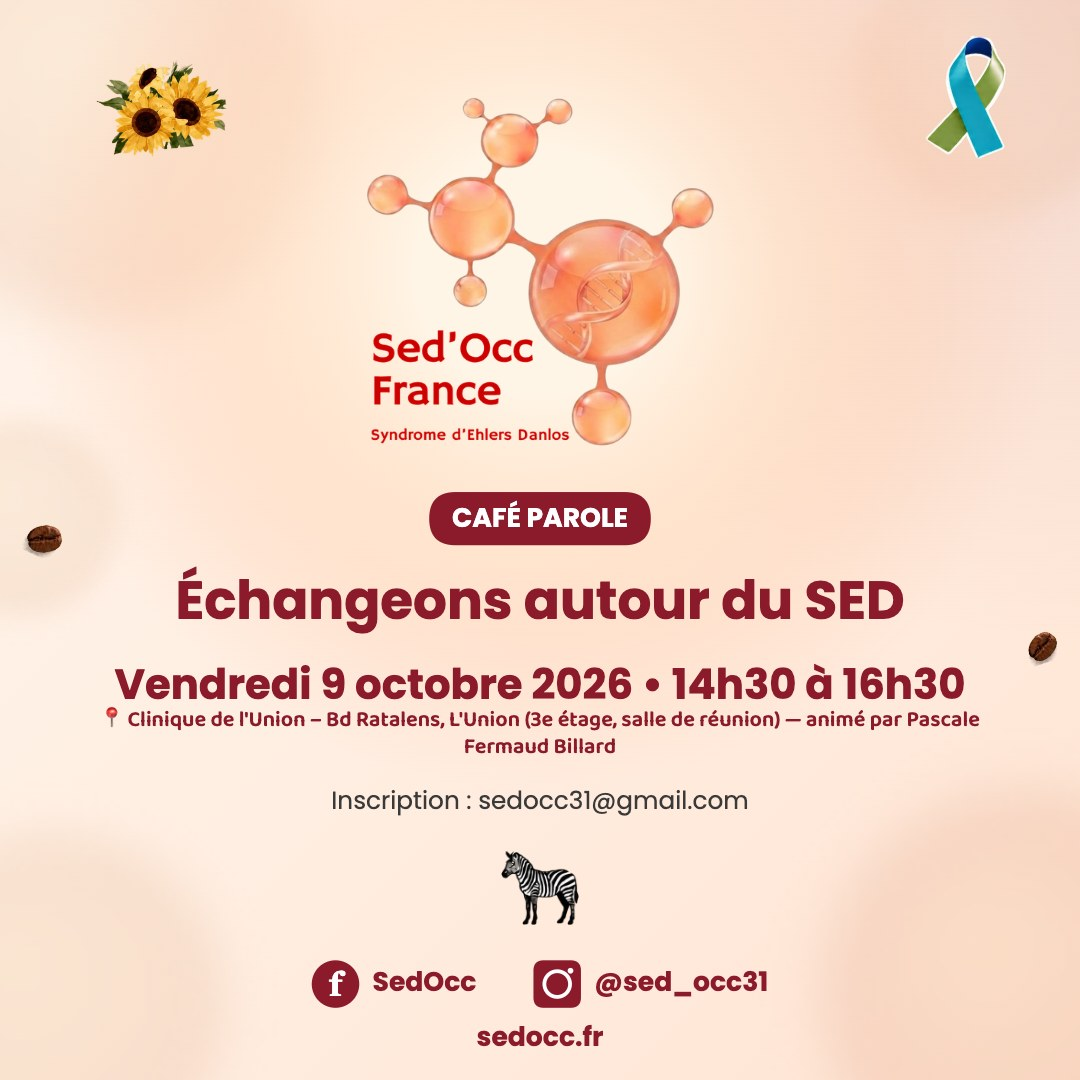
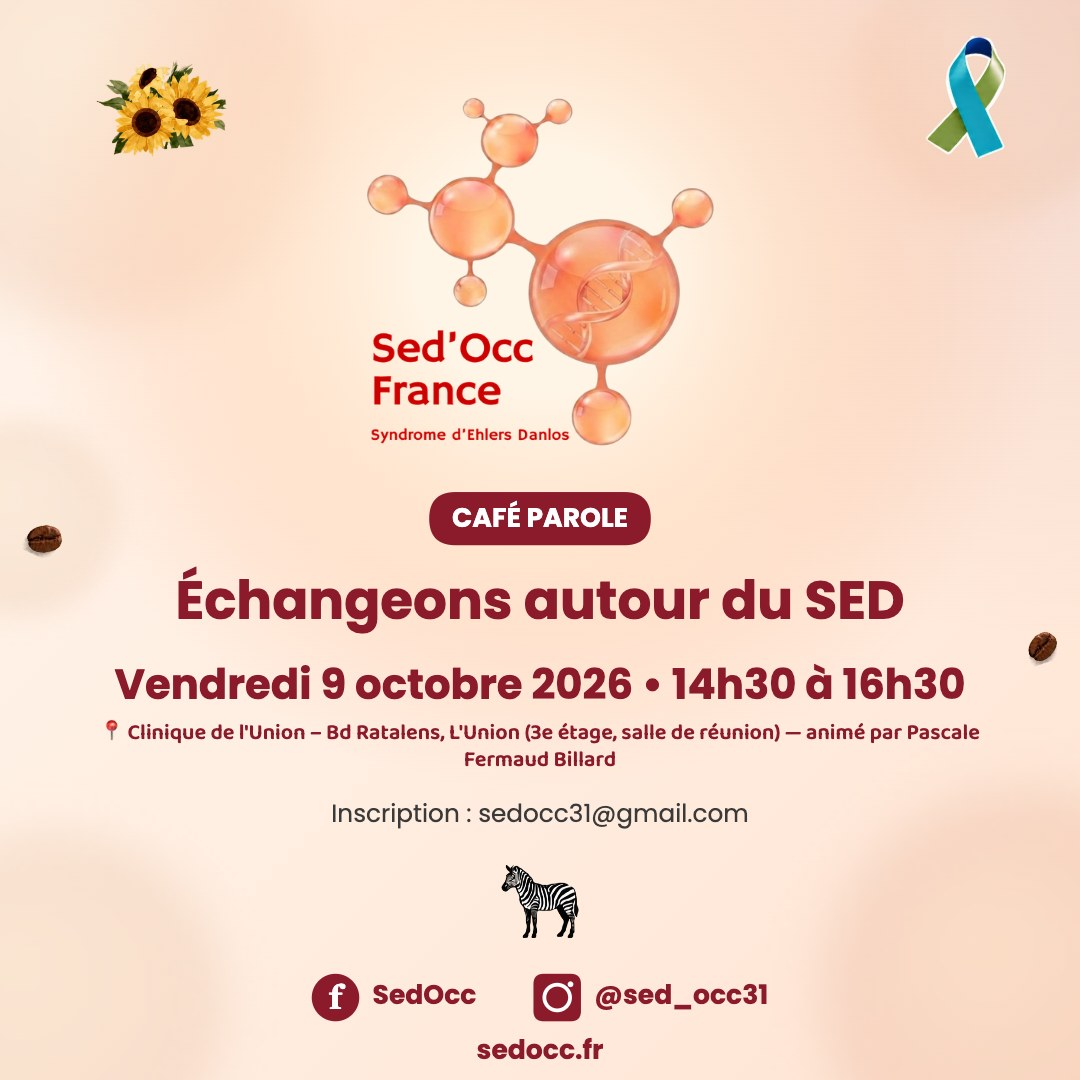
Mieux proportionner le generateur de visuels selon le format
- Format Facebook post (1200x630) : nouvelle mise en page horizontale
  dediee (logo a gauche, texte a droite) au lieu de reprendre la mise
  en page verticale retrecie a 55%, qui laissait les elements minuscules
  et perdus dans le cadre.
- Format Story (1080x1920) : elements agrandis (echelle 1.25 au lieu de
  1.0), le texte demarre plus haut, et le zebre se centre dans l'espace
  restant au lieu de laisser un grand vide avant le pied de page.
- La date/heure retrecit automatiquement si elle est trop longue pour
  le cadre (necessaire avec les elements plus grands).
- Regenere les deux visuels cafe parole d'octobre (format carre).

Changed region(s): [[0.0917, 0.6417, 0.9167, 0.7639], [0.275, 0.7944, 0.7333, 0.9778]]

diff --git a/admin.html b/admin.html
@@ -3898,9 +3898,172 @@ function drawVisuel(ctx, fmt, style) {
     const padY = isWide ? H * 0.10 : H * 0.08;
     let scale = 1;
     if (isA4) scale = 2.0;
-    else if (isStory) scale = 1.0;
+    else if (isStory) scale = 1.25;
     else if (isWide) scale = 0.55;
     else scale = 0.95;
+
+    // ----- Format "large" (Facebook post, 1200×630) : mise en page à part -----
+    // L'ancien système ("scale" unique appliqué à tout) rétrécissait énormément les éléments sur
+    // ce format très large mais peu haut (facteur ~0.55, contre ~0.95-1 sur les autres formats),
+    // ce qui les faisait paraître minuscules et perdus dans l'espace. Ici on utilise une mise en
+    // page horizontale dédiée (logo à gauche, texte à droite) qui occupe vraiment tout le cadre,
+    // comme une bannière, plutôt que de reprendre la mise en page verticale rétrécie.
+    if (isWide) {
+        const decorOn = !!(document.getElementById('vis-decor-cafe') && document.getElementById('vis-decor-cafe').checked);
+
+        // Colonne gauche : logo + halo
+        const leftW = W * 0.37;
+        const logoCx = leftW / 2;
+        const logoCy = H / 2 - 6;
+        const logoSize = Math.min(leftW, H) * 0.74;
+        if (visuelLogo) {
+            const cloudRadius = logoSize * 1.2;
+            const cloud = ctx.createRadialGradient(logoCx, logoCy, logoSize / 3, logoCx, logoCy, cloudRadius);
+            if (!isDark) {
+                cloud.addColorStop(0, 'rgba(255, 245, 230, 0.95)');
+                cloud.addColorStop(0.4, 'rgba(255, 220, 190, 0.55)');
+                cloud.addColorStop(0.7, 'rgba(255, 200, 165, 0.25)');
+                cloud.addColorStop(1, 'rgba(255, 200, 165, 0)');
+            } else {
+                cloud.addColorStop(0, 'rgba(255, 245, 230, 0.7)');
+                cloud.addColorStop(0.5, 'rgba(255, 220, 190, 0.3)');
+                cloud.addColorStop(1, 'rgba(255, 200, 165, 0)');
+            }
+            ctx.fillStyle = cloud;
+            ctx.beginPath();
+            ctx.arc(logoCx, logoCy, cloudRadius, 0, Math.PI * 2);
+            ctx.fill();
+            ctx.drawImage(visuelLogo, logoCx - logoSize / 2, logoCy - logoSize / 2, logoSize, logoSize);
+        }
+
+        // Décor Café Parole, redistribué pour un cadre large
+        if (decorOn) {
+            if (decorCafeImages.ruban) drawDecorImage(ctx, decorCafeImages.ruban, W * 0.975, H * 0.08, 72, 8);
+            if (decorCafeImages.tournesol) drawDecorImage(ctx, decorCafeImages.tournesol, leftW * 0.14, H * 0.14, 115, -6);
+            if (decorCafeImages.zebre) drawDecorImage(ctx, decorCafeImages.zebre, leftW * 0.84, H * 0.88, 72, 0);
+            if (decorCafeImages.grain) {
+                drawDecorImage(ctx, decorCafeImages.grain, W * 0.965, H * 0.58, 38, -18);
+                drawDecorImage(ctx, decorCafeImages.grain, leftW * 0.10, H * 0.90, 30, 22);
+            }
+        }
+
+        // Colonne droite : texte, aligné à gauche, groupé verticalement
+        const textX0 = W * 0.40;
+        const textMaxW = W * 0.93 - textX0;
+        const footerH = 56;
+        let ty = (H - footerH) * 0.10;
+        ctx.textAlign = 'left';
+        ctx.textBaseline = 'top';
+
+        if (type) {
+            ctx.font = 'bold 23px Poppins, sans-serif';
+            const typeUpper = type.toUpperCase();
+            const tw = ctx.measureText(typeUpper).width;
+            const bh = 40, bw = tw + 34;
+            roundRect(ctx, textX0, ty, bw, bh, bh / 2);
+            ctx.fillStyle = colorAccent;
+            ctx.fill();
+            ctx.fillStyle = '#FFFFFF';
+            ctx.textBaseline = 'middle';
+            ctx.fillText(typeUpper, textX0 + 17, ty + bh / 2 + 1);
+            ctx.textBaseline = 'top';
+            ty += bh + 20;
+        }
+
+        if (titre) {
+            ctx.fillStyle = colorPrimary;
+            ctx.font = 'bold 46px Poppins, sans-serif';
+            const lineH = 52;
+            const lines = wrapText(ctx, titre, textMaxW);
+            lines.forEach((l, i) => ctx.fillText(l, textX0, ty + i * lineH));
+            ty += lines.length * lineH + 16;
+        }
+
+        if (date) {
+            ctx.fillStyle = colorAccent;
+            ctx.font = 'bold 27px Poppins, sans-serif';
+            let dateText = date;
+            if (heure) dateText += ' • ' + heure;
+            const lines = wrapText(ctx, dateText, textMaxW);
+            const lineH = 33;
+            lines.forEach((l, i) => ctx.fillText(l, textX0, ty + i * lineH));
+            ty += lines.length * lineH + 12;
+        }
+
+        if (lieu) {
+            let lieuFs = 21;
+            ctx.font = '600 ' + lieuFs + 'px "Baloo 2", cursive, sans-serif';
+            let lines = wrapText(ctx, '📍 ' + lieu, textMaxW);
+            if (lines.length > 2) {
+                lieuFs = 17;
+                ctx.font = '600 ' + lieuFs + 'px "Baloo 2", cursive, sans-serif';
+                lines = wrapText(ctx, '📍 ' + lieu, textMaxW);
+            }
+            ctx.fillStyle = colorAccent;
+            const lineH = lieuFs * 1.3;
+            lines.forEach((l, i) => ctx.fillText(l, textX0, ty + i * lineH));
+            ty += lines.length * lineH + 12;
+        }
+
+        if (cta) {
+            ctx.fillStyle = colorText;
+            ctx.font = '18px Poppins, sans-serif';
+            const lines = wrapText(ctx, cta, textMaxW);
+            const lineH = 23;
+            lines.forEach((l, i) => ctx.fillText(l, textX0, ty + i * lineH));
+            ty += lines.length * lineH + 8;
+        }
+
+        if (lien) {
+            ctx.font = 'bold 20px Poppins, sans-serif';
+            const lw = ctx.measureText(lien).width;
+            const lh = 40, lbw = lw + 42;
+            ctx.save();
+            ctx.shadowColor = isDark ? 'rgba(0,0,0,0.2)' : 'rgba(139,26,43,0.18)';
+            ctx.shadowBlur = 10;
+            ctx.shadowOffsetY = 3;
+            roundRect(ctx, textX0, ty, lbw, lh, lh / 2);
+            ctx.fillStyle = isDark ? '#FFFFFF' : '#8B1A2B';
+            ctx.fill();
+            ctx.restore();
+            ctx.fillStyle = isDark ? '#8B1A2B' : '#FFFFFF';
+            ctx.textAlign = 'left';
+            ctx.textBaseline = 'middle';
+            ctx.fillText('🔗 ' + lien, textX0 + 21, ty + lh / 2);
+            ctx.textAlign = 'left';
+            ctx.textBaseline = 'top';
+        }
+
+        // Pied de page compact, pleine largeur
+        const showReseauxWide = reseauxMode === 'oui';
+        ctx.textAlign = 'center';
+        ctx.textBaseline = 'bottom';
+        ctx.fillStyle = colorAccent;
+        ctx.font = 'bold 20px Poppins, sans-serif';
+        ctx.fillText('sedocc.fr', W / 2, H - 14);
+
+        if (showReseauxWide) {
+            const iconSize = 28;
+            const iconY = H - 52;
+            const fbHandle = 'SedOcc', igHandle = '@sed_occ31';
+            ctx.font = 'bold 17px Poppins, sans-serif';
+            ctx.textAlign = 'left';
+            ctx.textBaseline = 'middle';
+            const fbW = iconSize + 10 + ctx.measureText(fbHandle).width;
+            const igW = iconSize + 10 + ctx.measureText(igHandle).width;
+            const gap = 34;
+            let xPos = (W - (fbW + gap + igW)) / 2;
+            drawFacebookIcon(ctx, xPos, iconY - iconSize / 2, iconSize, colorPrimary);
+            ctx.fillStyle = colorPrimary;
+            ctx.fillText(fbHandle, xPos + iconSize + 10, iconY);
+            xPos += fbW + gap;
+            drawInstagramIcon(ctx, xPos, iconY - iconSize / 2, iconSize, colorPrimary);
+            ctx.fillStyle = colorPrimary;
+            ctx.fillText(igHandle, xPos + iconSize + 10, iconY);
+        }
+
+        return;
+    }
 
     // ----- Logo avec NUAGE COSY autour (façon page d'accueil) + bulles décoratives -----
     let logoBottomY = padY;
@@ -3980,8 +4143,11 @@ function drawVisuel(ctx, fmt, style) {
     }
 
     // ----- Bloc texte sous le logo, dans la moitié inférieure -----
-    // On part juste après le logo, avec un espace
-    let cursorY = Math.max(logoBottomY + 30 * scale, H * 0.45);
+    // On part juste après le logo, avec un espace. Sur le format Story (très haut), un plancher
+    // à 45% de la hauteur laissait un grand vide entre le logo et le reste : on le réduit pour
+    // ce format précis.
+    const contentStartFloor = isStory ? H * 0.32 : H * 0.45;
+    let cursorY = Math.max(logoBottomY + 30 * scale, contentStartFloor);
 
     // Type d'événement (badge)
     if (type) {
@@ -4015,14 +4181,21 @@ function drawVisuel(ctx, fmt, style) {
         cursorY += titreLines.length * lineH + 28 * scale;
     }
 
-    // Date + heure
+    // Date + heure — la police rétrécit automatiquement si besoin pour ne jamais déborder
+    // du cadre (peut arriver avec une date + heure longues sur un format large comme Story).
     if (date) {
         ctx.fillStyle = colorAccent;
-        ctx.font = 'bold ' + (44 * scale) + 'px Poppins, sans-serif';
         let dateText = date;
         if (heure) dateText += ' • ' + heure;
+        let dateFontSize = 44 * scale;
+        const dateMaxW = W - padX * 2;
+        ctx.font = 'bold ' + dateFontSize + 'px Poppins, sans-serif';
+        while (ctx.measureText(dateText).width > dateMaxW && dateFontSize > 20) {
+            dateFontSize -= 2;
+            ctx.font = 'bold ' + dateFontSize + 'px Poppins, sans-serif';
+        }
         ctx.fillText(dateText, W / 2, cursorY);
-        cursorY += 46 * scale;
+        cursorY += dateFontSize * 1.05 + 14 * scale;
     }
 
     // Lieu — écriture "Baloo 2" plus ronde et ludique que le reste (au lieu du Poppins neutre),
@@ -4097,8 +4270,18 @@ function drawVisuel(ctx, fmt, style) {
     // silencieusement sur un contenu plus long. (Le tournesol, lui, est fixe en haut à gauche.)
     const zebreSize = 82 * scale;
     const decorRowGap = zebreSize + 28 * scale;
+    // Sur le format Story, le texte ne remplit pas toute la hauteur disponible avant le pied de
+    // page : plutôt que de laisser un grand vide sous le zèbre, on le centre dans l'espace libre.
+    let zebreY = contentBottomY + decorRowGap / 2;
+    if (isStory) {
+        const fixedFooterTop = H - padY * 0.45 - footerReserve;
+        const gapAvailable = fixedFooterTop - contentBottomY;
+        if (gapAvailable > decorRowGap + 80 * scale) {
+            zebreY = contentBottomY + gapAvailable / 2;
+        }
+    }
     if (decorCafeOn && decorCafeImages.zebre) {
-        drawDecorImage(ctx, decorCafeImages.zebre, W / 2, contentBottomY + decorRowGap / 2, zebreSize, 0);
+        drawDecorImage(ctx, decorCafeImages.zebre, W / 2, zebreY, zebreSize, 0);
     }
 
     // Le pied de page reste collé en bas si tout tient ; sinon il descend sous le contenu
